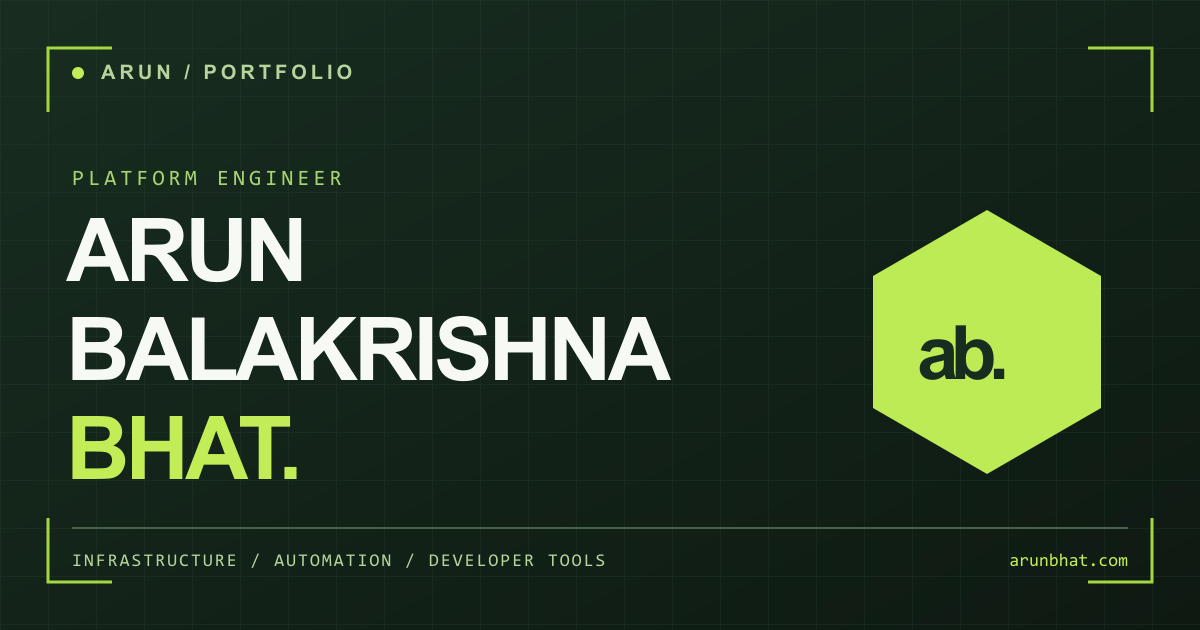
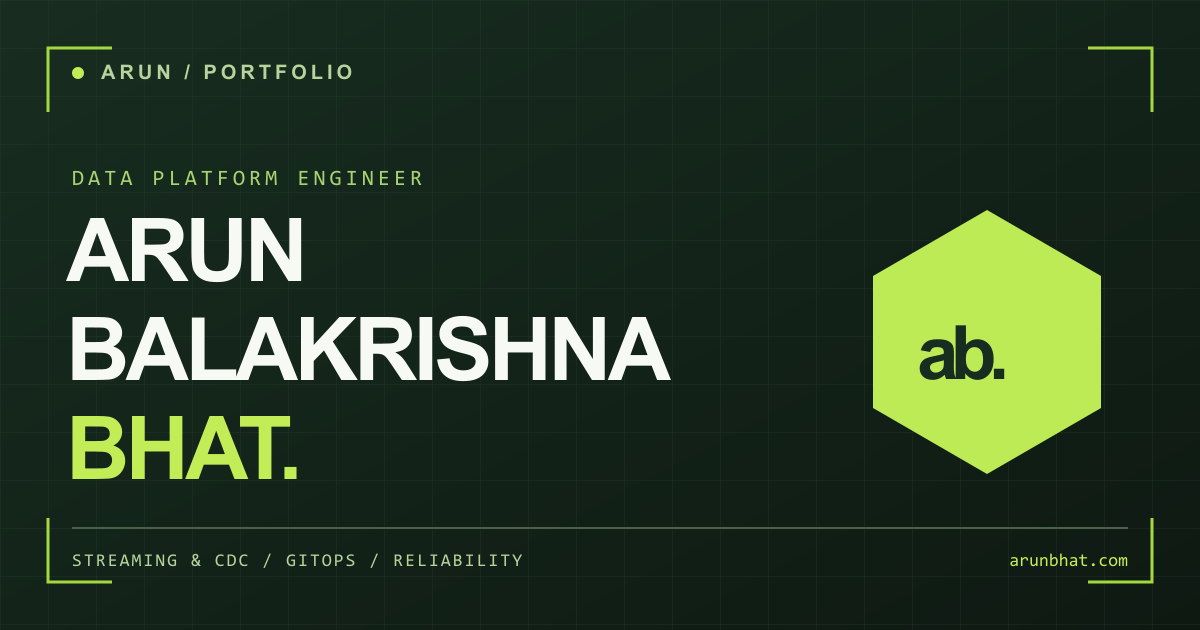
Align portfolio skills and experience with resume

Changed region(s): [[0.0617, 0.8746, 0.4933, 0.9048], [0.0617, 0.2714, 0.37, 0.3016]]

diff --git a/app/page.tsx b/app/page.tsx
@@ -6,13 +6,13 @@ import { SiteFooter } from "@/components/site-footer";
 import { GitHubActivity } from "@/components/github-activity";
 import { LeetCodeActivity } from "@/components/leetcode-activity";
 import { HeroSignal } from "@/components/hero-signal";
-import { certifications, profile, skillGroups } from "@/lib/portfolio";
+import { certifications, experience, profile, skillGroups } from "@/lib/portfolio";
 
 const areas = [
-  { icon: Network, title: "Streaming infrastructure", text: "Kafka internals, consumer lag, and Schema Registry—the systems and signals behind dependable data streams." },
-  { icon: Boxes, title: "Platforms that run", text: "Kubernetes, containers, and cloud infrastructure that give data products a place to operate." },
-  { icon: GitBranch, title: "Infrastructure as code", text: "Terraform workflows and provider tooling that make infrastructure easier to test and manage." },
-  { icon: Code2, title: "Tools for the operator", text: "Go, Python, and shell tools that turn everyday platform tasks into clear, repeatable workflows." },
+  { icon: Network, title: "Streaming & CDC pipelines", text: "Production data ingestion with Kafka, Confluent, and Debezium. Connector lifecycle, throughput tuning, and reliable data movement for analytics and operational systems." },
+  { icon: Boxes, title: "Kubernetes & GitOps", text: "Kafka and Strimzi on Kubernetes and EKS. Helm, Kustomize, and Flux CD for deployments, with Terraform and Ansible for repeatable infrastructure." },
+  { icon: GitBranch, title: "Reliability & operations", text: "Data-freshness monitoring, connector health, and centralized logging. On-call leadership, incident recovery, and root-cause analysis for production platforms." },
+  { icon: Code2, title: "Automation & integration", text: "Python and shell automation, Temporal workflows, and custom Java transforms for Kafka Connect. Go tools that make everyday platform operations easier." },
 ];
 
 const personJsonLd = {
@@ -38,15 +38,15 @@ export default function Home() {
             <div className="identity-panel">
               <p className="identity-title"><span className="status-dot" /> IDENTITY.SYS <span>{"// LOADED"}</span></p>
               <dl>
-                <div><dt>ROLE</dt><dd>Platform Engineer</dd></div>
+                <div><dt>ROLE</dt><dd>{profile.role}</dd></div>
                 <div><dt>BASE</dt><dd>Udupi, India</dd></div>
-                <div><dt>STACK</dt><dd>Kafka · Kubernetes<br />Terraform · Go · Python</dd></div>
-                <div><dt>FOCUS</dt><dd>Streaming infrastructure<br />&amp; developer tooling</dd></div>
+                <div><dt>STACK</dt><dd>Kafka · Debezium<br />Kubernetes · Terraform</dd></div>
+                <div><dt>FOCUS</dt><dd>Streaming &amp; CDC pipelines<br />Platform reliability</dd></div>
               </dl>
               <span className="identity-cursor" aria-hidden="true">▊ _</span>
             </div>
             <div className="hero-heading">
-              <p className="eyebrow"><span className="small-hex" aria-hidden="true">⬡</span> PLATFORM ENGINEER</p>
+              <p className="eyebrow"><span className="small-hex" aria-hidden="true">⬡</span> {profile.role.toUpperCase()}</p>
               <h1 id="hero-title" aria-label={profile.name}>ARUN<br />BALAKRISHNA<br /><span>BHAT<span className="name-cursor" aria-hidden="true">_</span></span></h1>
               <p className="hero-tagline">Building the platforms <br />behind the data.</p>
             </div>
@@ -55,7 +55,7 @@ export default function Home() {
             <div className="hero-system-line"><span><i /> SYSTEM ONLINE</span><span>MODE <b>BUILD &amp; OPERATE</b></span><span>LOCATION <b>IN / UDUPI</b></span></div>
           </div>
           <div className="hero-bottom">
-            <div className="hero-actions"><Link className="button-primary" href="/work/">Explore my work <ArrowUpRight size={17} /></Link><a className="button-text resume-link" href={profile.resume} download>Download resume <Download size={16} aria-hidden="true" /></a></div>
+            <div className="hero-actions"><Link className="button-primary" href="/work/">Explore my work <ArrowUpRight size={17} /></Link><a className="button-resume" href={profile.resume} download>Download my resume <Download size={17} aria-hidden="true" /></a></div>
             <span className="hero-prompt">arun@portfolio:~$ ./build-the-platform</span>
             <div className="social-icons"><a href={profile.github} target="_blank" rel="noopener noreferrer" aria-label="GitHub"><Github size={19} /></a><a href={profile.linkedin} target="_blank" rel="noopener noreferrer" aria-label="LinkedIn"><Linkedin size={19} /></a><a href={`mailto:${profile.email}`} aria-label="Email Arun"><Mail size={19} /></a></div>
           </div>
@@ -63,15 +63,19 @@ export default function Home() {
         </section>
 
         <section id="about" className="section wrap about-section" aria-labelledby="about-title">
-          <div className="section-heading centered"><span className="eyebrow">01 / ABOUT</span><h2 id="about-title">The engineer behind the platform.</h2><p>I’m {profile.name}, a platform engineer in Udupi, India. I build and run the streaming infrastructure that data products sit on—and write the tools that make those platforms easier to operate.</p></div>
+          <div className="section-heading centered"><span className="eyebrow">01 / ABOUT</span><h2 id="about-title">The engineer behind the platform.</h2><p>I’m {profile.name}, a data platform engineer in Udupi, India. {profile.summary}</p></div>
           <div className="focus-grid">{areas.map(({ icon: Icon, title, text }) => <article className="focus-card" key={title}><span className="square-icon"><Icon size={23} strokeWidth={1.6} /></span><h3>{title}</h3><p>{text}</p></article>)}</div>
-          <div className="about-note"><Terminal size={17} /><p>Ask me about Kafka internals, consumer lag, Schema Registry, or writing your own Terraform provider.</p></div>
+          <div className="about-note"><Terminal size={17} /><p>Ask me about CDC performance, Kafka Connect, GitOps, or keeping a streaming platform reliable in production.</p></div>
+          <div className="experience-section" aria-labelledby="experience-title">
+            <div className="experience-heading"><div><p className="eyebrow">IN PRACTICE</p><h3 id="experience-title">Where I’ve put it to work.</h3></div><a className="button-text" href={profile.resume} target="_blank" rel="noopener noreferrer">Full resume <ArrowUpRight size={16} /></a></div>
+            <div className="experience-grid">{experience.map((job) => <article className="experience-card" key={job.company}><p className="experience-period">{job.period}</p><h4>{job.company}</h4><p className="experience-role">{job.role}</p><p className="experience-summary">{job.summary}</p><ul>{job.highlights.map((highlight) => <li key={highlight}>{highlight}</li>)}</ul></article>)}</div>
+          </div>
         </section>
 
         <section id="skills" className="section section-tint" aria-labelledby="skills-title"><div className="wrap">
-          <div className="section-heading"><span className="eyebrow">02 / SKILLS &amp; TOOLKIT</span><h2 id="skills-title">The tools I work with.</h2><p>From a shell script to a streaming platform. These are the languages, systems, and services in my toolkit.</p></div>
-          <div className="skill-groups">{skillGroups.map((group) => <article className="skill-group" key={group.id}><div className="skill-group-label"><span>{group.id}</span><h3>{group.title}</h3></div><div className="skill-tiles">{group.skills.map((skill) => <div className="skill-tile" key={skill.name}><Image className="skill-logo" src={skill.icon} alt="" width={40} height={40} loading="lazy" unoptimized /><span>{skill.name}</span></div>)}</div></article>)}</div>
-          <div className="skills-source"><GitBranch size={15} /><span>Also on my <a href="https://github.com/arunherga/arunherga" target="_blank" rel="noopener noreferrer">GitHub profile <ArrowUpRight size={13} /></a></span></div>
+          <div className="section-heading"><span className="eyebrow">02 / SKILLS &amp; TOOLKIT</span><h2 id="skills-title">From ingestion to reliable operations.</h2><p>The tools I use to build data pipelines, automate infrastructure, and operate production platforms. Alongside the stack: data quality, performance tuning, capacity planning, and incident response.</p></div>
+          <div className="skill-groups">{skillGroups.map((group) => <article className="skill-group" key={group.id}><div className="skill-group-label"><span>{group.id}</span><div><h3>{group.title}</h3><p>{group.description}</p></div></div><div className="skill-tiles">{group.skills.map((skill) => <div className="skill-tile" key={skill.name}><Image className="skill-logo" src={skill.icon} alt="" width={40} height={40} loading="lazy" unoptimized /><span>{skill.name}</span></div>)}</div></article>)}</div>
+          <div className="skills-source"><GitBranch size={15} /><span>Explore my <a href={profile.resume} target="_blank" rel="noopener noreferrer">resume <ArrowUpRight size={13} /></a> and <a href="https://github.com/arunherga/arunherga" target="_blank" rel="noopener noreferrer">GitHub profile <ArrowUpRight size={13} /></a></span></div>
         </div></section>
 
         <section id="certifications" className="section wrap certifications" aria-labelledby="certifications-title">

diff --git a/lib/portfolio.ts b/lib/portfolio.ts
@@ -1,6 +1,7 @@
 export const profile = {
   name: "Arun Balakrishna Bhat",
-  role: "Platform Engineer",
+  role: "Data Platform Engineer",
+  summary: "I design, build, and operate Kafka-based data pipelines and CDC platforms, with a focus on reliability, performance, and data quality. I automate infrastructure and help engineering teams move from ingestion to dependable data consumption.",
   location: "Udupi, India",
   email: "arun.b.bhat@gmail.com",
   github: "https://github.com/arunherga",
@@ -9,12 +10,46 @@ export const profile = {
   resume: "/resume/Arun_Bhat_Resume_Data_Platform_Engineer.pdf",
 };
 
-// Skills supplied by Arun and his GitHub profile; credentials use verified links.
+// Resume-backed skills, plus tools Arun previously confirmed and his GitHub profile.
 export const skillGroups = [
-  { title: "Code & automation", id: "01", skills: [{ name: "Python", icon: "/skills/python.svg" }, { name: "Go", icon: "/skills/go.svg" }, { name: "Bash / Shell", icon: "/skills/bash.svg" }, { name: "Ansible", icon: "/skills/ansible.svg" }] },
-  { title: "Systems & containers", id: "02", skills: [{ name: "Linux", icon: "/skills/linux.svg" }, { name: "Docker", icon: "/skills/docker.svg" }, { name: "Docker Compose", icon: "/skills/docker-compose.png" }, { name: "Kubernetes", icon: "/skills/kubernetes.svg" }] },
-  { title: "Cloud & infrastructure", id: "03", skills: [{ name: "Terraform", icon: "/skills/terraform.svg" }, { name: "OpenTofu", icon: "/skills/opentofu.svg" }, { name: "AWS", icon: "/skills/amazonwebservices.svg" }, { name: "Azure", icon: "/skills/azure.svg" }] },
-  { title: "Streaming & data", id: "04", skills: [{ name: "Apache Kafka", icon: "/skills/apachekafka.svg" }, { name: "Temporal", icon: "/skills/temporal.svg" }, { name: "MySQL", icon: "/skills/mysql.svg" }, { name: "MS SQL Server", icon: "/skills/microsoftsqlserver.svg" }] },
+  {
+    title: "Streaming & integration", id: "01",
+    description: "Kafka Connect, CDC ingestion, connector tuning, Schema Registry, and workflow orchestration.",
+    skills: [{ name: "Apache Kafka", icon: "/skills/apachekafka.svg" }, { name: "Confluent Platform", icon: "/skills/confluent.png" }, { name: "Confluent Cloud", icon: "/skills/confluent.png" }, { name: "Debezium CDC", icon: "/skills/debezium.svg" }, { name: "Strimzi", icon: "/skills/strimzi.svg" }, { name: "Temporal", icon: "/skills/temporal.svg" }],
+  },
+  {
+    title: "Cloud & containers", id: "02",
+    description: "Managed Kubernetes on EKS, Azure Event Hubs migrations, networking, storage, and production troubleshooting.",
+    skills: [{ name: "Kubernetes", icon: "/skills/kubernetes.svg" }, { name: "AWS / EKS", icon: "/skills/amazonwebservices.svg" }, { name: "Azure / Event Hubs", icon: "/skills/azure.svg" }, { name: "Docker", icon: "/skills/docker.svg" }, { name: "Docker Compose", icon: "/skills/docker-compose.png" }, { name: "Linux", icon: "/skills/linux.svg" }],
+  },
+  {
+    title: "Infrastructure & GitOps", id: "03",
+    description: "Repeatable provisioning, GitOps deployments, configuration management, and controlled rolling upgrades.",
+    skills: [{ name: "Terraform", icon: "/skills/terraform.svg" }, { name: "OpenTofu", icon: "/skills/opentofu.svg" }, { name: "Ansible", icon: "/skills/ansible.svg" }, { name: "Helm", icon: "/skills/helm.svg" }, { name: "Kustomize", icon: "/skills/kustomize.svg" }, { name: "Flux CD", icon: "/skills/flux.svg" }],
+  },
+  {
+    title: "Code & data", id: "04",
+    description: "Pipeline automation, operator tooling, shell scripts, and custom Java transforms for Kafka Connect.",
+    skills: [{ name: "Python", icon: "/skills/python.svg" }, { name: "Go", icon: "/skills/go.svg" }, { name: "Bash / Shell", icon: "/skills/bash.svg" }, { name: "Java", icon: "/skills/java.svg" }, { name: "MySQL", icon: "/skills/mysql.svg" }, { name: "MS SQL Server", icon: "/skills/microsoftsqlserver.svg" }],
+  },
+  {
+    title: "Observability & reliability", id: "05",
+    description: "Connector health, data-freshness alerts, centralized logging, P1/P2 incident response, and root-cause analysis.",
+    skills: [{ name: "Grafana", icon: "/skills/grafana.svg" }, { name: "OpenSearch", icon: "/skills/opensearch.svg" }, { name: "ELK Stack", icon: "/skills/elasticsearch.svg" }, { name: "PagerDuty", icon: "/skills/pagerduty.svg" }],
+  },
+];
+
+export const experience = [
+  {
+    company: "iHerb", role: "Data Platform Engineer", period: "2025 — Present",
+    summary: "Operate Confluent Kafka and Strimzi clusters on Kubernetes, and build Debezium CDC pipelines for production data platforms.",
+    highlights: ["Improved CDC throughput by approximately 60% through connector and task tuning.", "Strengthened connector health and data-freshness monitoring; fixed a data-loss bug with a custom Java transform.", "Manage GitOps deployments with Helm, Kustomize, and Flux CD, alongside Confluent Cloud capacity and cost planning."],
+  },
+  {
+    company: "Platformatory Labs", role: "Data Engineer / Lead SRE", period: "2022 — 2025",
+    summary: "Built and operated streaming platforms for Jollibee Foods Corporation, Tata Digital, and MCX, spanning data integration, cloud migration, and SRE.",
+    highlights: ["Collaborated with 40+ engineering teams on integrations for a centralized Kafka-based data hub.", "Contributed to an Azure Event Hubs to Confluent Cloud migration with zero data loss and over 50% cost optimization.", "Led six SREs supporting 24/7 Kafka operations, coordinating incident response, RCA, and Ansible-driven upgrades."],
+  },
 ];
 
 export const certifications = [

diff --git a/components/portfolio-terminal.tsx b/components/portfolio-terminal.tsx
@@ -33,8 +33,8 @@ TERMINAL
 function outputFor(command: string): string {
   switch (command) {
     case "help": return helpText;
-    case "whoami": case "about": case "cat /etc/profile": return `${profile.name}\n${profile.role} · ${profile.location}\n\nI build and run streaming infrastructure with Kafka, Kubernetes,\nand Terraform, and write the tools that make it easier to operate.\n\nAsk me about Kafka internals, consumer lag, Schema Registry,\nor writing your own Terraform provider.`;
-    case "skills": case "cat skills.md": return skillGroups.map((group) => `${group.title.toUpperCase()}\n  ${group.skills.map((skill) => skill.name).join(" · ")}`).join("\n\n");
+    case "whoami": case "about": case "cat /etc/profile": return `${profile.name}\n${profile.role} · ${profile.location}\n\n${profile.summary}\n\nAsk me about CDC performance, Kafka Connect, GitOps,\nor keeping a streaming platform reliable in production.`;
+    case "skills": case "cat skills.md": return skillGroups.map((group) => `${group.title.toUpperCase()}\n  ${group.skills.map((skill) => skill.name).join(" · ")}\n  ${group.description}`).join("\n\n");
     case "certifications": return certifications.map((certificate) => `${certificate.short} — ${certificate.name}\n  ${certificate.issuer}\n  ${certificate.href}`).join("\n\n");
     case "projects": case "work": return projects.map((project) => `${project.number}  ${project.name}\n    ${project.tags.join(" · ")}\n    ${project.href}`).join("\n\n") + "\n\nType 'cd work' to explore the project page.";
     case "contact": return `EMAIL     ${profile.email}\nGITHUB    github.com/arunherga\nLINKEDIN  linkedin.com/in/arunbbhat\nLEETCODE  leetcode.com/u/arunHerga\nLOCATION  ${profile.location}`;
@@ -116,7 +116,7 @@ export function PortfolioTerminal() {
           <section className="terminal-pane terminal-profile">
             <div className="terminal-bar"><span className="window-dots" aria-hidden="true"><i /><i /><i /></span><span id="terminal-title">portfolio.sh — bash</span><button className="terminal-close" type="button" onClick={() => setOpen(false)}><Monitor size={15} /> UI Mode <X size={15} /></button></div>
             <div className="terminal-pane-body">
-              <section><p className="terminal-command">arun@portfolio:~$ cat /etc/profile</p><h2># ENGINEER PROFILE</h2><dl className="terminal-details"><div><dt>NAME</dt><dd>{profile.name}</dd></div><div><dt>ROLE</dt><dd>{profile.role}</dd></div><div><dt>LOCATION</dt><dd>{profile.location}</dd></div><div><dt>EMAIL</dt><dd><a href={`mailto:${profile.email}`}>{profile.email}</a></dd></div></dl><p>I build and run streaming infrastructure with Kafka, Kubernetes, and Terraform—and write the tooling that makes those platforms easier to operate.</p></section>
+              <section><p className="terminal-command">arun@portfolio:~$ cat /etc/profile</p><h2># ENGINEER PROFILE</h2><dl className="terminal-details"><div><dt>NAME</dt><dd>{profile.name}</dd></div><div><dt>ROLE</dt><dd>{profile.role}</dd></div><div><dt>LOCATION</dt><dd>{profile.location}</dd></div><div><dt>EMAIL</dt><dd><a href={`mailto:${profile.email}`}>{profile.email}</a></dd></div></dl><p>{profile.summary}</p></section>
               <section><p className="terminal-command">arun@portfolio:~$ cat skills.md</p><h2># TOOLKIT</h2><div className="terminal-skill-list">{skillGroups.map((group) => <p key={group.id}><strong>{group.title}</strong><span>{group.skills.map((skill) => skill.name).join(" · ")}</span></p>)}</div></section>
               <section><p className="terminal-command">arun@portfolio:~$ ls -la</p><h2># NAVIGATE</h2><div className="terminal-directory">{[{ name: "home", href: "/" }, { name: "skills", href: "/#skills" }, { name: "work", href: "/work/" }, { name: "activity", href: "/#activity" }, { name: "contact", href: "/#contact" }].map((item) => <a key={item.name} href={item.href} onClick={() => setOpen(false)}><span>drwxr-xr-x</span> {item.name}/ <ArrowUpRight size={12} /></a>)}</div></section>
               <div className="terminal-socials"><a href={profile.github} target="_blank" rel="noopener noreferrer">GitHub ↗</a><a href={profile.linkedin} target="_blank" rel="noopener noreferrer">LinkedIn ↗</a><a href={`mailto:${profile.email}`}>Email ↗</a></div>

diff --git a/app/globals.css b/app/globals.css
@@ -92,7 +92,13 @@
 .signal-packet:before{content:"";position:absolute;left:0;top:6px;width:7px;height:7px;background:#7eab3d;box-shadow:0 0 9px #7eab3d99;border-radius:50%}
 .signal-packet.trailing{animation-delay:-3.5s;opacity:.35}
 .hero-signal.is-paused *,.hero-signal.is-paused *:before{animation-play-state:paused}
-@media(max-width:600px){.hero-actions{display:flex;flex-direction:column;align-items:flex-start;gap:6px}.hero-actions .resume-link{display:inline-flex;padding:8px 0;font-size:10px}}
+/* Resume-backed skills and professional experience. */
+.button-resume{display:inline-flex;align-items:center;justify-content:center;gap:12px;padding:14px 20px;border:1px solid #89b348;border-radius:2px;background:#bee38d;color:#22351a;font-size:12px;line-height:1.5;font-weight:700;white-space:nowrap;box-shadow:0 3px 0 #87ab4d40;transition:background .2s,transform .2s}.button-resume:hover{background:#aed76f;transform:translateY(-2px)}.button-resume svg{flex:none}
+.skill-group{grid-template-columns:245px minmax(0,1fr);gap:28px}.skill-group-label{padding-top:10px;gap:14px}.skill-group-label h3{max-width:none}.skill-group-label p{font-size:11px;line-height:1.8;color:#737e6a;margin:10px 0 0}.skill-tiles{grid-template-columns:repeat(6,minmax(0,1fr));align-content:start;gap:10px}.skill-tile{min-height:116px;font-size:10px;line-height:1.6;padding:17px 7px}.skill-tile>span{max-width:100%;overflow-wrap:anywhere}
+.experience-section{margin-top:56px}.experience-heading{display:flex;justify-content:space-between;align-items:center;gap:20px;margin-bottom:24px}.experience-heading h3{font-size:22px;letter-spacing:-1px;margin:9px 0 0}.experience-grid{display:grid;grid-template-columns:repeat(2,minmax(0,1fr));gap:20px}.experience-card{padding:28px;border:1px solid #dfe6d8;background:#fbfcf9;min-width:0}.experience-period{font-size:10px;letter-spacing:.5px;color:#728d50;margin:0 0 18px}.experience-card h4{font-size:20px;letter-spacing:-.6px;margin:0 0 8px}.experience-role{font-size:11px;color:#527432;margin:0 0 20px}.experience-summary,.experience-card li{font-size:12px;line-height:1.9;color:#626b5e}.experience-summary{margin:0}.experience-card ul{margin:20px 0 0;padding-left:17px;display:grid;gap:12px}.experience-card li{padding-left:3px}.experience-card li::marker{color:#87a45f}
+@media(max-width:1120px){.skill-group{grid-template-columns:205px minmax(0,1fr)}.skill-tiles{grid-template-columns:repeat(3,minmax(0,1fr))}}
+@media(max-width:900px){.skill-group{grid-template-columns:minmax(0,1fr);gap:18px}.skill-group-label{padding-top:0;align-items:flex-start}.skill-group-label p{max-width:580px}.experience-grid{grid-template-columns:1fr}}
+@media(max-width:650px){.skill-tiles{grid-template-columns:repeat(2,minmax(0,1fr))}.skill-tile{min-height:100px}.skill-group-label p{font-size:10px}.experience-section{margin-top:38px}.experience-heading{align-items:flex-start;flex-direction:column;gap:2px}.experience-heading h3{font-size:20px}.experience-heading .button-text{font-size:11px}.experience-card{padding:23px}.experience-summary,.experience-card li{font-size:11px}.hero-actions{display:flex;flex-direction:column;align-items:stretch;gap:10px}.button-resume{padding:12px 13px;font-size:10px;gap:8px}}
 @keyframes signal-travel{from{transform:translateX(-8px)}to{transform:translateX(100%)}}
 @keyframes signal-node{0%,20%,100%{background:#f5f9f0;color:#6a8c48;box-shadow:0 0 0 0 #86b34b00}6%,12%{background:#e4efce;color:#3d5e25;box-shadow:0 0 0 6px #86b34b14;border-color:#8eaf64}}
 @media(max-width:650px){.film-chapters{grid-template-columns:repeat(2,minmax(0,1fr))}.film-chapters button{flex-direction:row;padding:12px 8px}.film-chapters button:nth-child(3){border-left:0}.film-chapters button:nth-child(n+3){border-top:1px solid #3b5039}.hero-signal{padding-top:14px}.signal-heading{font-size:7px;letter-spacing:.7px}.signal-heading button{font-size:9px}.signal-stage{font-size:9px}.signal-node{width:38px;height:38px}.signal-rail{top:10px}.signal-track{margin-top:15px}.film-player:fullscreen .film-stage{width:min(100%,calc((100dvh - 165px) * 1.6))}}

diff --git a/app/layout.tsx b/app/layout.tsx
@@ -2,9 +2,9 @@ import type { Metadata } from "next";
 import { profile } from "@/lib/portfolio";
 import "./globals.css";
 
-const title = `${profile.name} — Platform Engineer`;
+const title = `${profile.name} — ${profile.role}`;
 const description =
-  `${profile.name} is a platform engineer in Udupi, India, building streaming infrastructure with Kafka, Kubernetes, Terraform, Go, and Python.`;
+  `${profile.name} is a data platform engineer in Udupi, India, building Kafka and Debezium CDC pipelines, Kubernetes platforms, and reliable infrastructure with Terraform and GitOps.`;
 
 export const metadata: Metadata = {
   metadataBase: new URL("https://arunbhat.com"),
@@ -17,6 +17,12 @@ export const metadata: Metadata = {
     profile.name,
     "platform engineer",
     "platform engineering",
+    "data platform engineer",
+    "data pipelines",
+    "Debezium CDC",
+    "Confluent",
+    "GitOps",
+    "SRE",
     "Apache Kafka",
     "Terraform",
     "Kubernetes",

diff --git a/components/site-header.tsx b/components/site-header.tsx
@@ -14,7 +14,7 @@ export function SiteHeader({ work = false }: { work?: boolean }) {
       <div className="header-inner wrap">
         <Link className="brand" href="/" aria-label={`${profile.name} home`}>
           <span className="brand-mark" aria-hidden="true">ab<span>_</span></span>
-          <span className="brand-name">{profile.name}<span>PLATFORM ENGINEER</span></span>
+          <span className="brand-name">{profile.name}<span>{profile.role.toUpperCase()}</span></span>
         </Link>
         <nav className={menuOpen ? "main-nav is-open" : "main-nav"} aria-label="Main navigation">
           {[{ label: "Home", href: `${home}#top` }, { label: "About", href: `${home}#about` }, { label: "Skills", href: `${home}#skills` }, { label: "Activity", href: `${home}#activity` }].map((item) => (

diff --git a/public/skills/SIMPLE-ICONS-LICENSE.md b/public/skills/SIMPLE-ICONS-LICENSE.md
@@ -1,0 +1,30 @@
+# CC0 1.0 Universal
+
+## Statement of Purpose
+
+The laws of most jurisdictions throughout the world automatically confer exclusive Copyright and Related Rights (defined below) upon the creator and subsequent owner(s) (each and all, an “owner”) of an original work of authorship and/or a database (each, a “Work”).
+
+Certain owners wish to permanently relinquish those rights to a Work for the purpose of contributing to a commons of creative, cultural and scientific works (“Commons”) that the public can reliably and without fear of later claims of infringement build upon, modify, incorporate in other works, reuse and redistribute as freely as possible in any form whatsoever and for any purposes, including without limitation commercial purposes. These owners may contribute to the Commons to promote the ideal of a free culture and the further production of creative, cultural and scientific works, or to gain reputation or greater distribution for their Work in part through the use and efforts of others.
+
+For these and/or other purposes and motivations, and without any expectation of additional consideration or compensation, the person associating CC0 with a Work (the “Affirmer”), to the extent that he or she is an owner of Copyright and Related Rights in the Work, voluntarily elects to apply CC0 to the Work and publicly distribute the Work under its terms, with knowledge of his or her Copyright and Related Rights in the Work and the meaning and intended legal effect of CC0 on those rights.
+
+1. Copyright and Related Rights. A Work made available under CC0 may be protected by copyright and related or neighboring rights (“Copyright and Related Rights”). Copyright and Related Rights include, but are not limited to, the following:
+    1. the right to reproduce, adapt, distribute, perform, display, communicate, and translate a Work;
+    2. moral rights retained by the original author(s) and/or performer(s);
+    3. publicity and privacy rights pertaining to a person’s image or likeness depicted in a Work;
+    4. rights protecting against unfair competition in regards to a Work, subject to the limitations in paragraph 4(i), below;
+    5. rights protecting the extraction, dissemination, use and reuse of data in a Work;
+    6. database rights (such as those arising under Directive 96/9/EC of the European Parliament and of the Council of 11 March 1996 on the legal protection of databases, and under any national implementation thereof, including any amended or successor version of such directive); and
+    7. other similar, equivalent or corresponding rights throughout the world based on applicable law or treaty, and any national implementations thereof.
+
+2. Waiver. To the greatest extent permitted by, but not in contravention of, applicable law, Affirmer hereby overtly, fully, permanently, irrevocably and unconditionally waives, abandons, and surrenders all of Affirmer’s Copyright and Related Rights and associated claims and causes of action, whether now known or unknown (including existing as well as future claims and causes of action), in the Work (i) in all territories worldwide, (ii) for the maximum duration provided by applicable law or treaty (including future time extensions), (iii) in any current or future medium and for any number of copies, and (iv) for any purpose whatsoever, including without limitation commercial, advertising or promotional purposes (the “Waiver”). Affirmer makes the Waiver for the benefit of each member of the public at large and to the detriment of Affirmer’s heirs and successors, fully intending that such Waiver shall not be subject to revocation, rescission, cancellation, termination, or any other legal or equitable action to disrupt the quiet enjoyment of the Work by the public as contemplated by Affirmer’s express Statement of Purpose.
+
+3. Public License Fallback. Should any part of the Waiver for any reason be judged legally invalid or ineffective under applicable law, then the Waiver shall be preserved to the maximum extent permitted taking into account Affirmer’s express Statement of Purpose. In addition, to the extent the Waiver is so judged Affirmer hereby grants to each affected person a royalty-free, non transferable, non sublicensable, non exclusive, irrevocable and unconditional license to exercise Affirmer’s Copyright and Related Rights in the Work (i) in all territories worldwide, (ii) for the maximum duration provided by applicable law or treaty (including future time extensions), (iii) in any current or future medium and for any number of copies, and (iv) for any purpose whatsoever, including without limitation commercial, advertising or promotional purposes (the “License”). The License shall be deemed effective as of the date CC0 was applied by Affirmer to the Work. Should any part of the License for any reason be judged legally invalid or ineffective under applicable law, such partial invalidity or ineffectiveness shall not invalidate the remainder of the License, and in such case Affirmer hereby affirms that he or she will not (i) exercise any of his or her remaining Copyright and Related Rights in the Work or (ii) assert any associated claims and causes of action with respect to the Work, in either case contrary to Affirmer’s express Statement of Purpose.
+
+4. Limitations and Disclaimers.
+    1. No trademark or patent rights held by Affirmer are waived, abandoned, surrendered, licensed or otherwise affected by this document.
+    2. Affirmer offers the Work as-is and makes no representations or warranties of any kind concerning the Work, express, implied, statutory or otherwise, including without limitation warranties of title, merchantability, fitness for a particular purpose, non infringement, or the absence of latent or other defects, accuracy, or the present or absence of errors, whether or not discoverable, all to the greatest extent permissible under applicable law.
+    3. Affirmer disclaims responsibility for clearing rights of other persons that may apply to the Work or any use thereof, including without limitation any person’s Copyright and Related Rights in the Work. Further, Affirmer disclaims responsibility for obtaining any necessary consents, permissions or other rights required for any use of the Work.
+    4. Affirmer understands and acknowledges that Creative Commons is not a party to this document and has no duty or obligation with respect to this CC0 or use of the Work.
+
+For more information, please see <https://creativecommons.org/publicdomain/zero/1.0>.

diff --git a/public/skills/SOURCES.md b/public/skills/SOURCES.md
@@ -7,4 +7,11 @@ These logos identify technologies in Arun's toolkit. All trademarks belong to th
 - OpenTofu: [official symbol for light backgrounds](https://github.com/opentofu/brand-artifacts/blob/589e4111bcf8de39fae9dfb2b8659f7f5373a92b/symbol-only/transparent/SVG/on-light.svg). See `OPENTOFU-LICENSE.txt` (MPL-2.0 and trademark notice).
 - Temporal: [official brand assets](https://temporal.io/brand), [dark logomark SVG](https://images.ctfassets.net/0uuz8ydxyd9p/3B1zR4imcNyF9oHQxT06AD/9fce8b9ead280e66c21805c58d115176/Temporal_Symbol_dark.svg).
 
-Artwork is served locally. Temporal's SVG viewBox trims excess empty canvas; its paths and colors are unchanged. All other artwork is stored unchanged. Display dimensions are set in CSS, and the adjacent text supplies each skill's accessible name.
+- Helm, Java, Grafana, and Elasticsearch (representing the ELK stack): original SVGs from the same pinned Devicon revision and MIT license above.
+- Strimzi and Flux CD: [CNCF artwork](https://github.com/cncf/artwork/tree/831f27a0cf4227b1b76a28ff51a9f4127a2195ec/projects), color icon variants. See the repository's artwork and trademark guidance.
+- Debezium: [official project artwork](https://github.com/debezium/debezium.github.io/blob/731be53f3d66adf568965670d5a2327e63a824c3/assets/images/color_black_debezium_type_600px.svg). The viewBox isolates the symbol from the wordmark; paths and colors are unchanged.
+- Confluent Platform and Cloud: [official Confluent touch icon](https://www.confluent.io/icons/apple-touch-icon.png).
+- Kustomize: an original configuration-layers SVG symbol, not a vendor logo. It illustrates Kustomize's configuration overlays.
+- OpenSearch and PagerDuty: [Simple Icons](https://github.com/simple-icons/simple-icons/tree/d0b3c2d7153794b912913746fc0498a5d3211727/icons), under the included `SIMPLE-ICONS-LICENSE.md` (CC0). Fill colors match the project's brand metadata: `#005EB8` and `#06AC38` respectively.
+
+Artwork is served locally. Temporal's SVG viewBox trims excess empty canvas; its paths and colors are unchanged. Apart from the display adjustments noted above, artwork is stored unchanged. Display dimensions are set in CSS, and the adjacent text supplies each skill's accessible name. AWS and Azure logos also identify the EKS and Event Hubs experience described in the resume.
